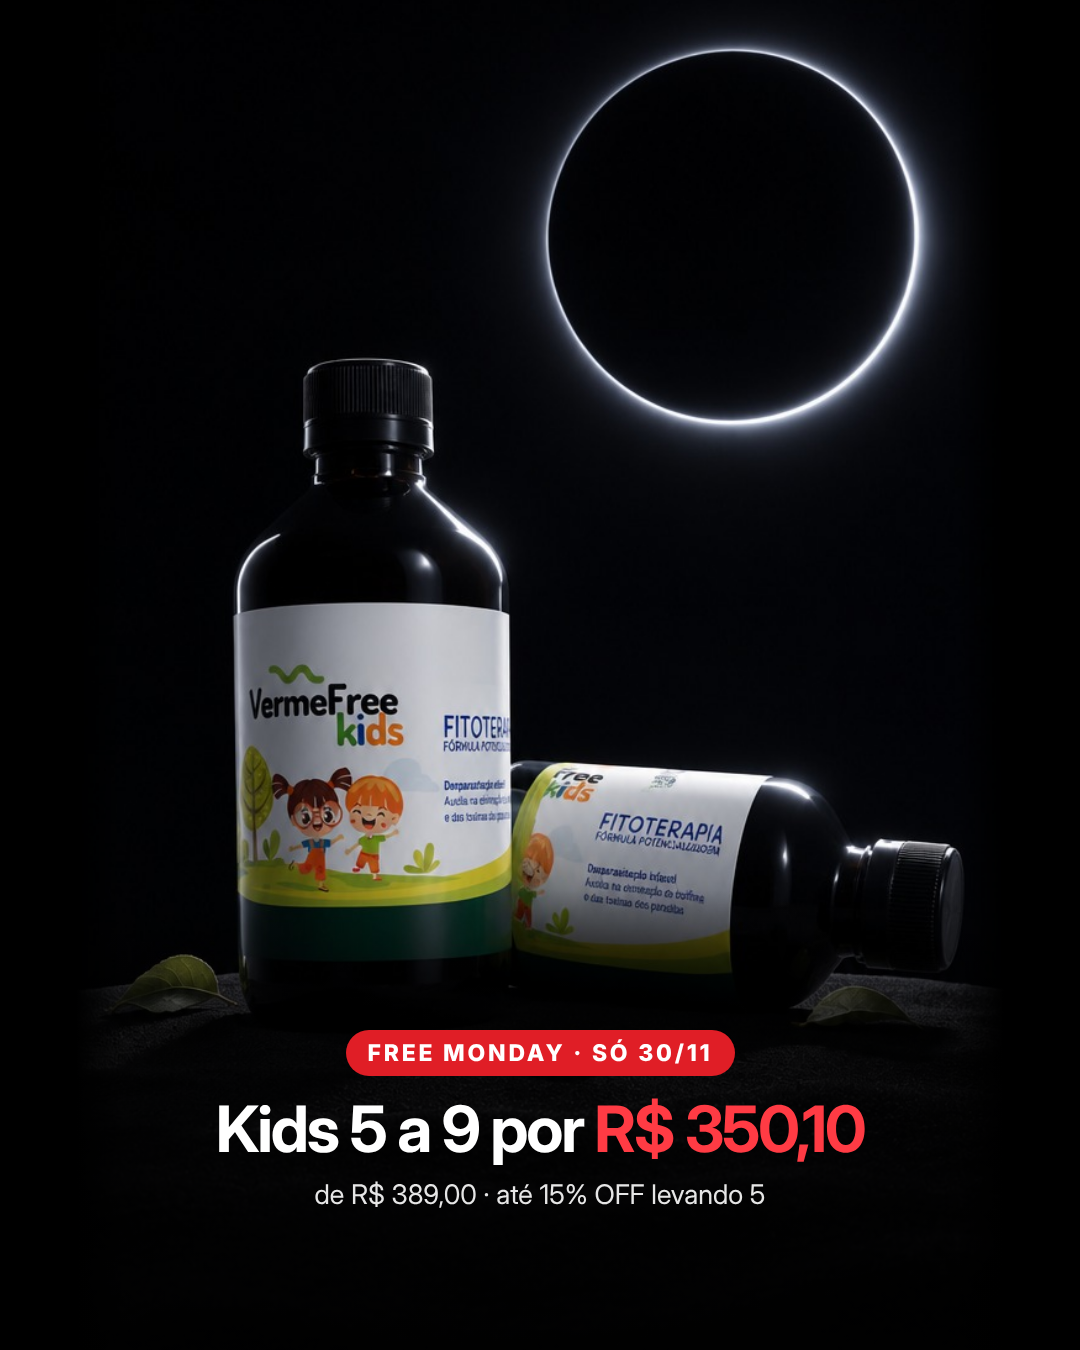
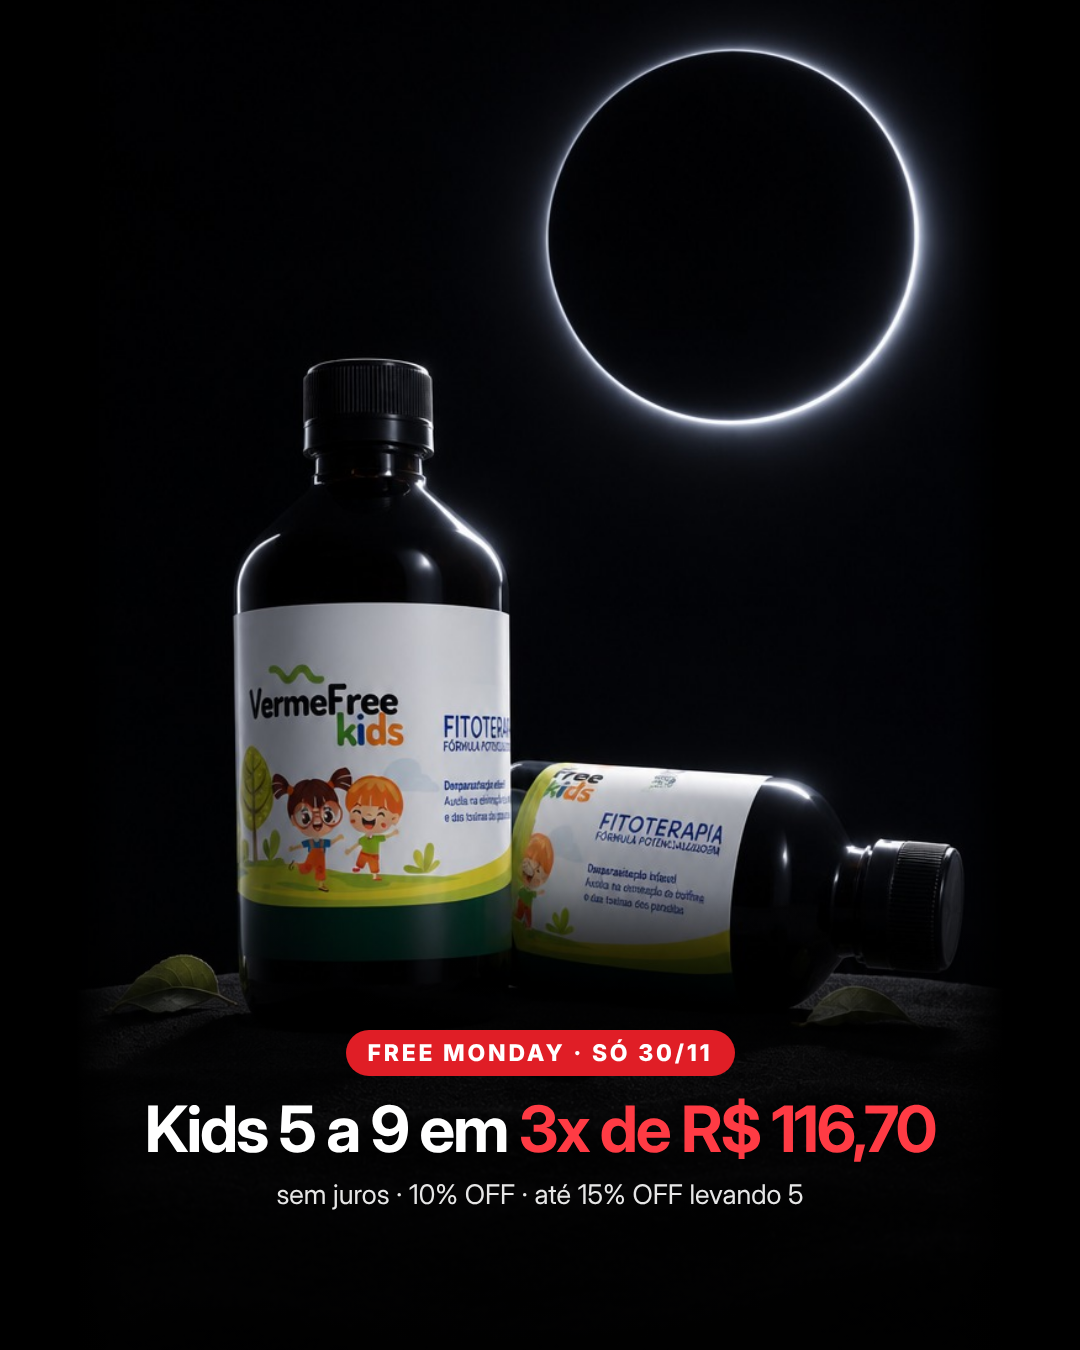
Free Monday: tira preço total, parcela 3x sem juros (03, 04, 05, 06, 08, 10)
Claude-Session: https://claude.ai/code/session_01UR7LFtJwBJjiUEuKDUpttV

Changed region(s): [[0.1222, 0.8089, 0.8861, 0.9022]]

diff --git a/novembro-pedro/criativos/free-monday/copy.md b/novembro-pedro/criativos/free-monday/copy.md
@@ -1,5 +1,7 @@
 # Free Monday (30/11) · 10 estáticos de venda
 
+**17/11 · sem preço total (nova recomendação):** 03 Adulto em 3x de R$ 104,10 · 04 Kids 2 a 4 em 3x de R$ 81,00 · 05 Kids 5 a 9 em 3x de R$ 116,70 · 06 Kit Família em 3x de R$ 345,00 (todas "sem juros"); 08 "1 Protocolo Adulto já garante o frete grátis"; 10 "15% OFF em cada um · o 6º kit vem de presente". Prova: prova-sem-preco.jpg.
+
 16/11, pedido do Pedro. Oferta pela ficha v2 (Vitor, aprovada 28/10): escada 10% (1 un) · 12% (3 un) · 15% (5 un), frete grátis a partir de R$ 299, 1 kit adulto de brinde acima de R$ 1.000, mensagem "última chance de desparasitar no ano" (chega a tempo da última lua nova do ano). Mesmo grupo VIP da Verme Friday (00h VIP, 07h todos).
 Visual: noite com lua nova (disco preto com anel branco), produto real em pedra escura (Higgsfield com as fotos reais, cenas/), pílula vermelha "Free Monday · só 30/11", título branco com destaque vermelho. 4:5 + 9:16 (texto fora dos 14% de cima e dos 20% de baixo).
 
